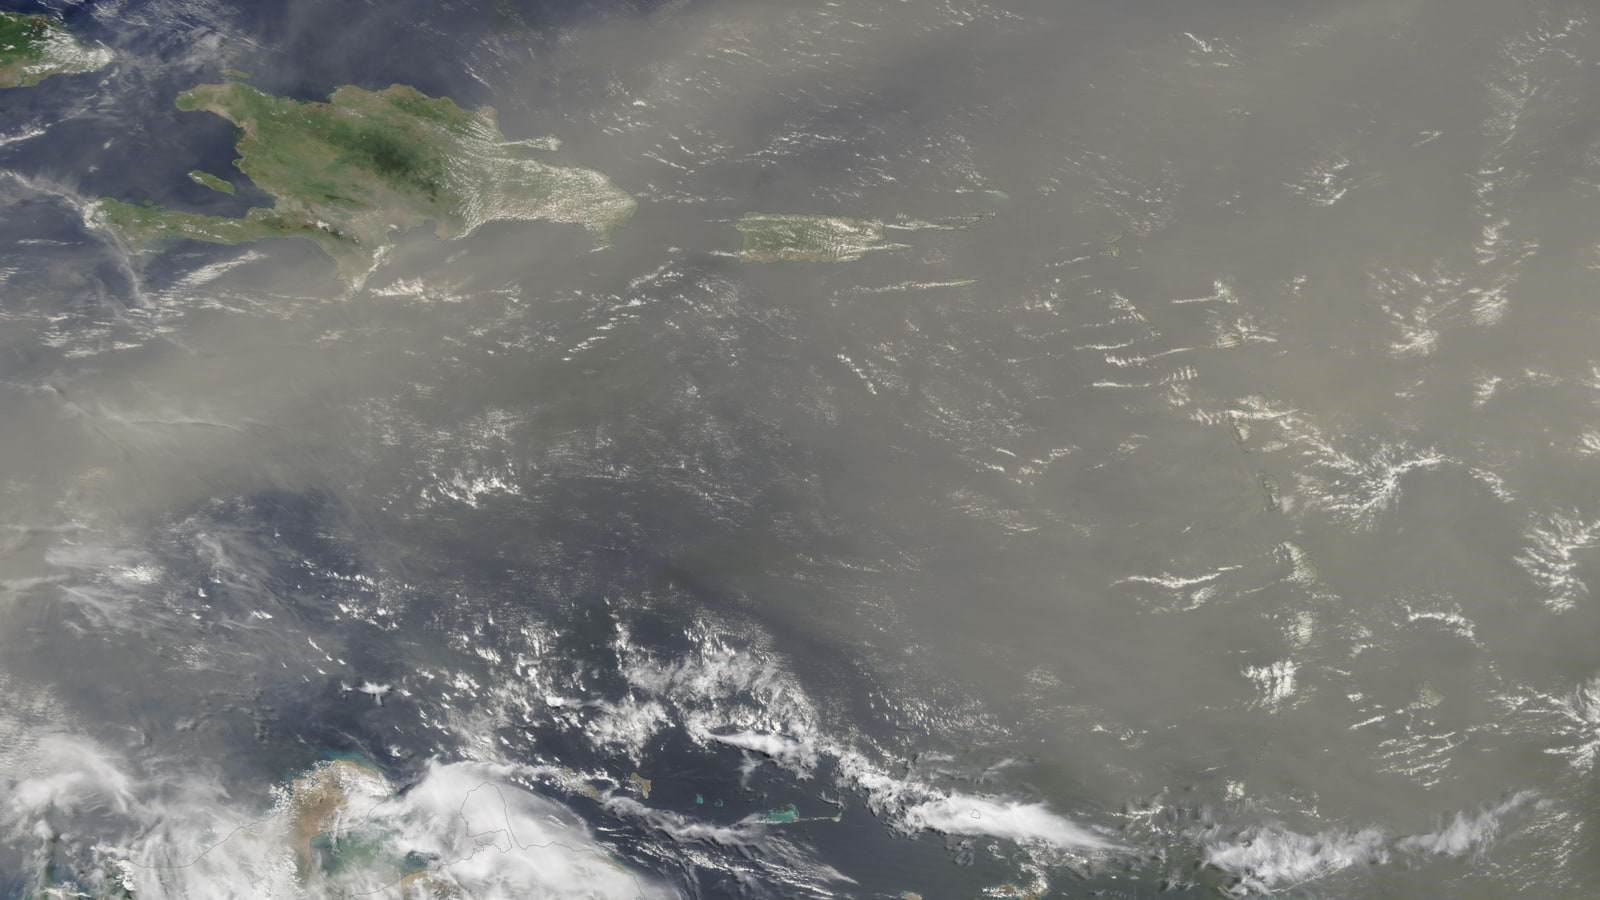
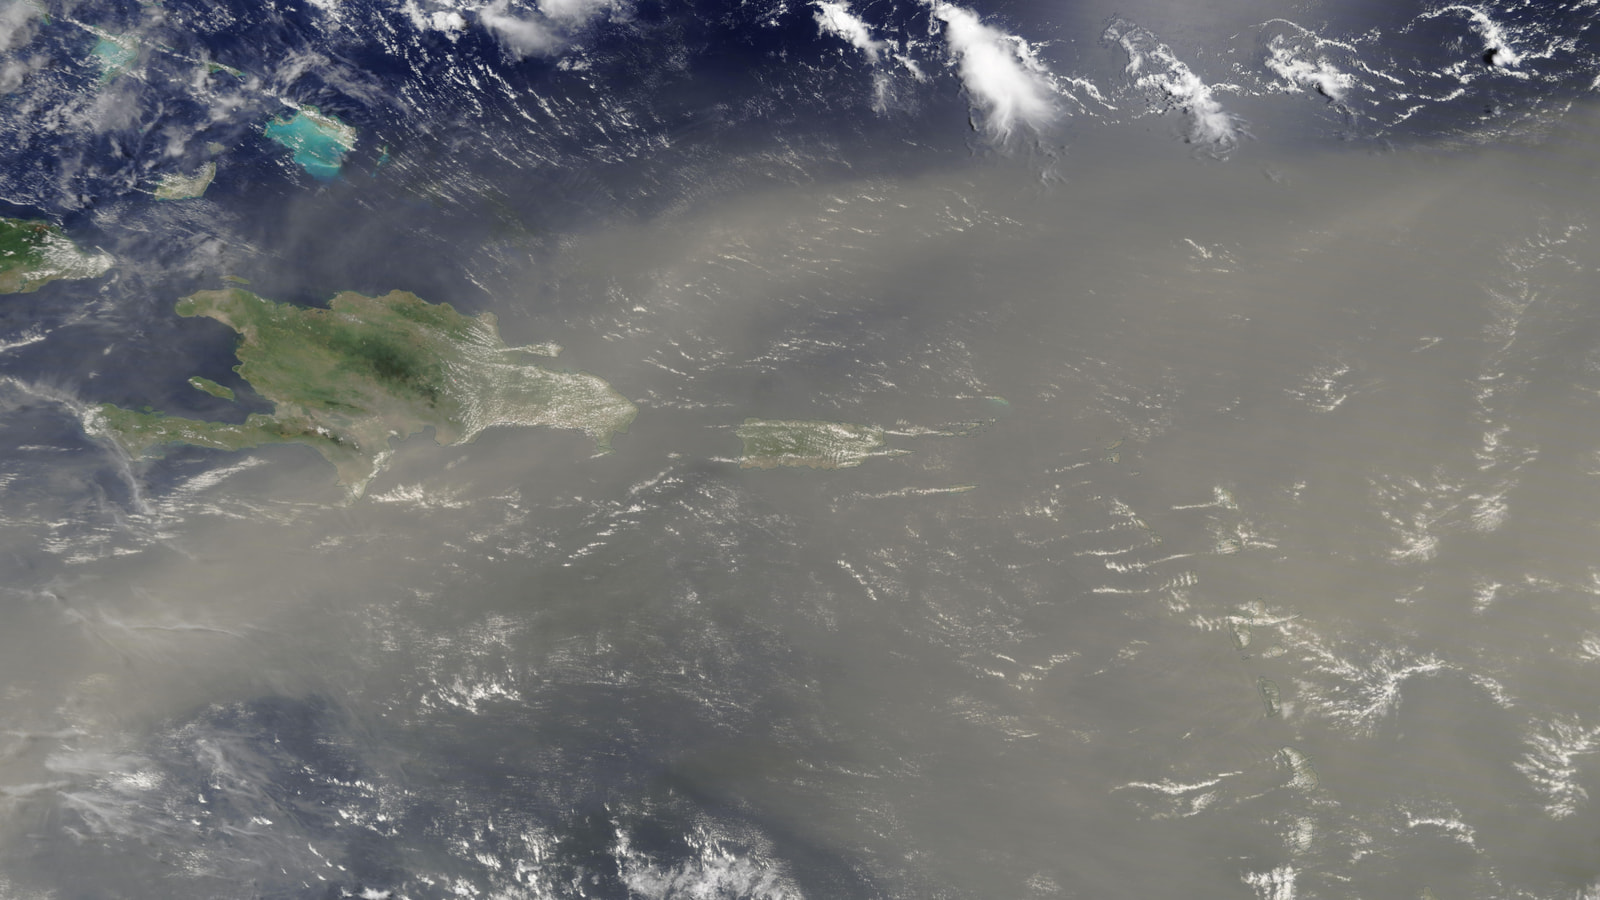
Sync newsletter covers and tighten Writing thumb framing
Replace outdated newsletter featured thumbs with the current essay covers,
swap in a stronger Moon-above-limb plate, re-crop dust for island detail,
and add optional coverFocus so list thumbnails keep the subject in frame.

diff --git a/lib/content.ts b/lib/content.ts
@@ -12,6 +12,13 @@ import {
 
 const POSTS_DIR = path.join(process.cwd(), 'content/blog')
 
+const coverFocusSchema = z
+  .string()
+  .regex(
+    /^(?:(?:left|center|right|[0-9]+(?:\.[0-9]+)?%)\s+(?:top|center|bottom|[0-9]+(?:\.[0-9]+)?%))$/,
+    'coverFocus must be a CSS object-position pair',
+  )
+
 const frontmatterSchema = z.object({
   title: z.string().min(1),
   description: z.string().min(1),
@@ -20,6 +27,8 @@ const frontmatterSchema = z.object({
   coverWidth: z.number().int().positive().optional(),
   coverHeight: z.number().int().positive().optional(),
   coverCaption: z.string().optional(),
+  /** Optional CSS object-position for list thumbs (e.g. "center 28%"). */
+  coverFocus: coverFocusSchema.optional(),
 })
 
 export interface PostCover {
@@ -27,6 +36,7 @@ export interface PostCover {
   width: number
   height: number
   caption?: string
+  focus?: string
 }
 
 export interface Post {
@@ -157,6 +167,7 @@ export function getPost(slug: string): Post {
       width: fm.coverWidth,
       height: fm.coverHeight,
       caption: fm.coverCaption,
+      focus: fm.coverFocus,
     }
   }
 
@@ -228,17 +239,11 @@ function topicSeeds(slug: string) {
   // Tiny catalog of essays: a light Earth/space seed keeps "Posts like this"
   // from pairing a black-hole piece with coastal flooding just because both
   // mention "planet" a few times.
-  if (
-    /moon|black-holes|listening|thin-blue-shell|orbit|galaxy|enceladus|space/.test(
-      slug,
-    )
-  ) {
+  if (/moon|black-holes|listening|thin-blue-shell/.test(slug)) {
     return 'cosmos astronomy spacetime gravity orbit'
   }
   if (
-    /rain|dust|forest|ice|tide|cities|island|wallace|river|equator|sahara|passport/.test(
-      slug,
-    )
+    /rain|dust|forest|ice|tide|cities|island|wallace|passport/.test(slug)
   ) {
     return 'earth geography climate landscape ocean'
   }

diff --git a/lib/newsletters.ts b/lib/newsletters.ts
@@ -21,9 +21,15 @@ const newsletterFrontmatterSchema = z.object({
 
 export const archivedNewsletterImages = {
   '/content/newsletters/1/cover.png': { width: 1200, height: 675 },
-  '/content/newsletters/1/post-rss.png': { width: 1200, height: 675 },
-  '/content/newsletters/1/post-pointer.png': { width: 1200, height: 675 },
-  '/content/newsletters/1/post-upstash.png': { width: 1200, height: 675 },
+  '/content/newsletters/1/post-thin-blue-shell.jpg': { width: 1200, height: 675 },
+  '/content/newsletters/1/post-dust-that-feeds-a-forest.jpg': {
+    width: 1200,
+    height: 675,
+  },
+  '/content/newsletters/1/post-listening-for-black-holes.jpg': {
+    width: 1200,
+    height: 675,
+  },
   '/content/newsletters/1/comments.png': { width: 1064, height: 1182 },
   '/content/newsletters/1/comments-mobile.png': { width: 1190, height: 1372 },
   '/content/newsletters/1/guestbook.png': { width: 1582, height: 1256 },

diff --git a/components/post-row.tsx b/components/post-row.tsx
@@ -48,6 +48,11 @@ export function PostRow({
               height={44}
               sizes="64px"
               className="print-thumb-img"
+              style={
+                post.cover.focus
+                  ? ({ objectPosition: post.cover.focus } as React.CSSProperties)
+                  : undefined
+              }
             />
           </span>
         ) : (
